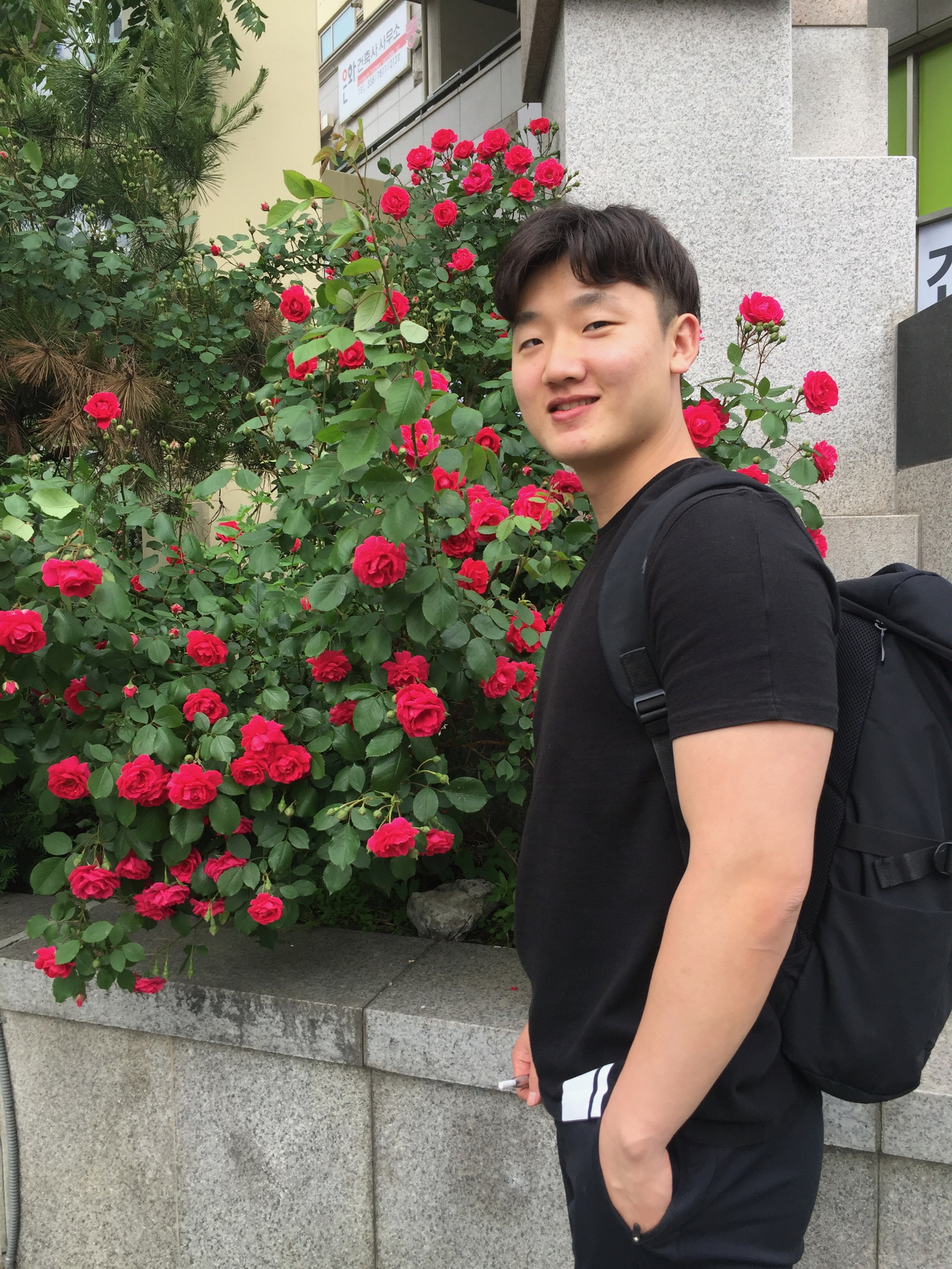
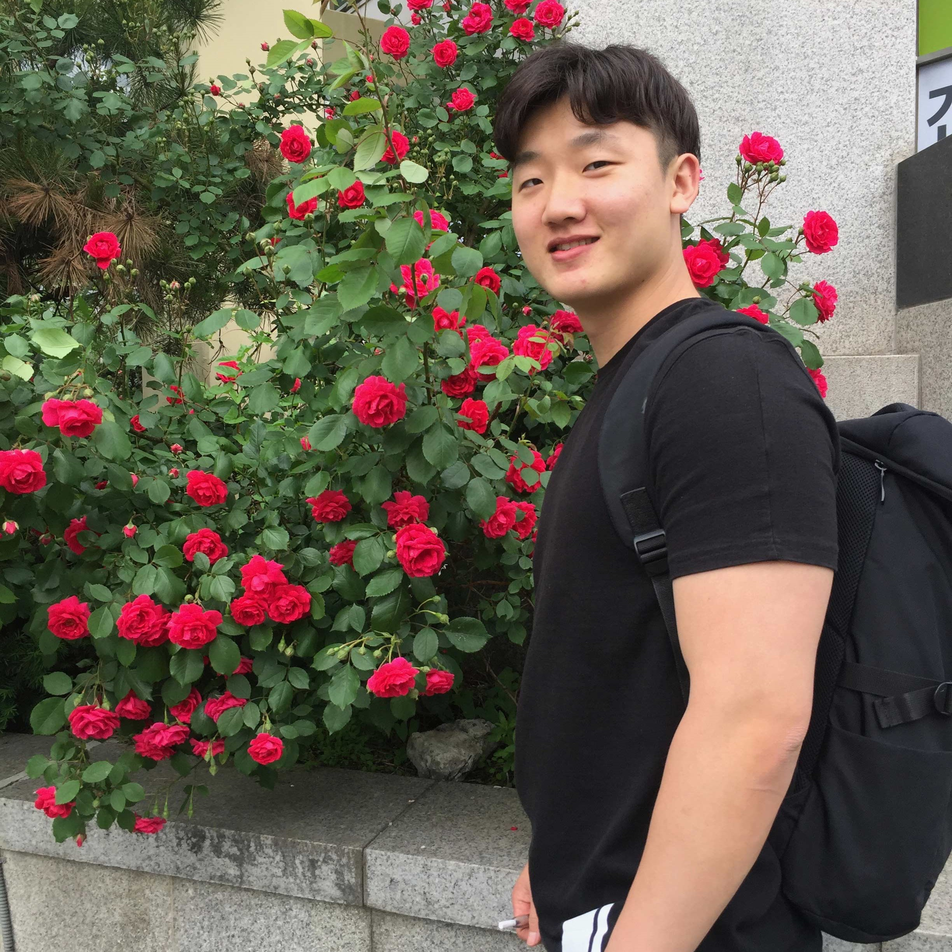
'21 1.31 photo down sizing

diff --git a/more.html b/more.html
@@ -39,7 +39,7 @@
       <div class="user-component">
         <div class="user-component__column">
           <img
-            src="img/byungsker.JPG"
+            src="img/chats/나.jpg"
             class="user-component__avatar user-component__avatar--xl"
           />
           <div class="user-component__text">
